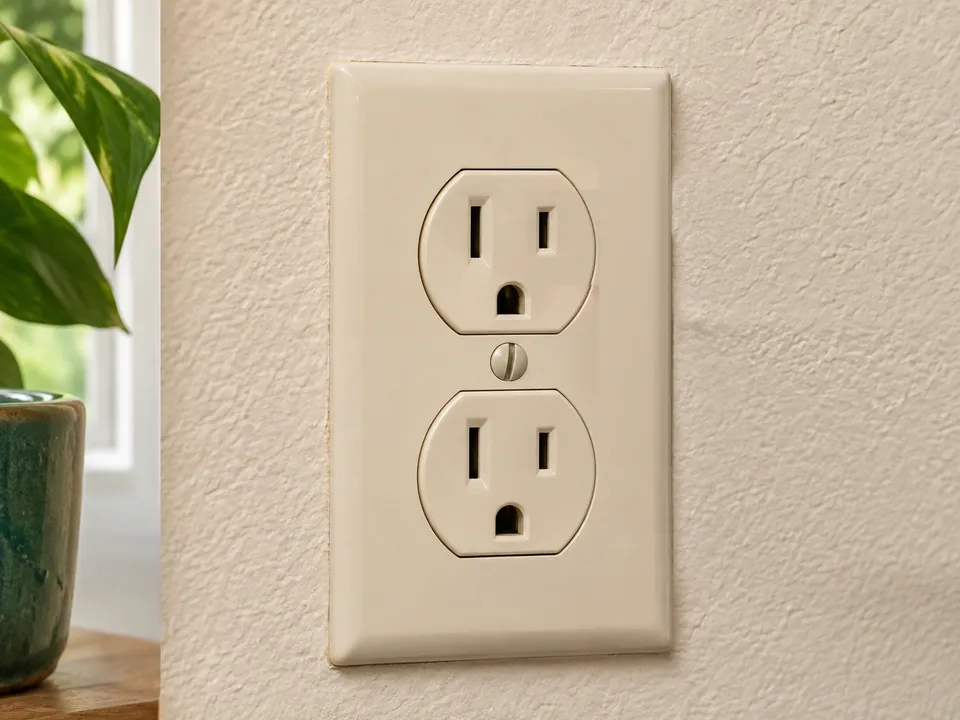
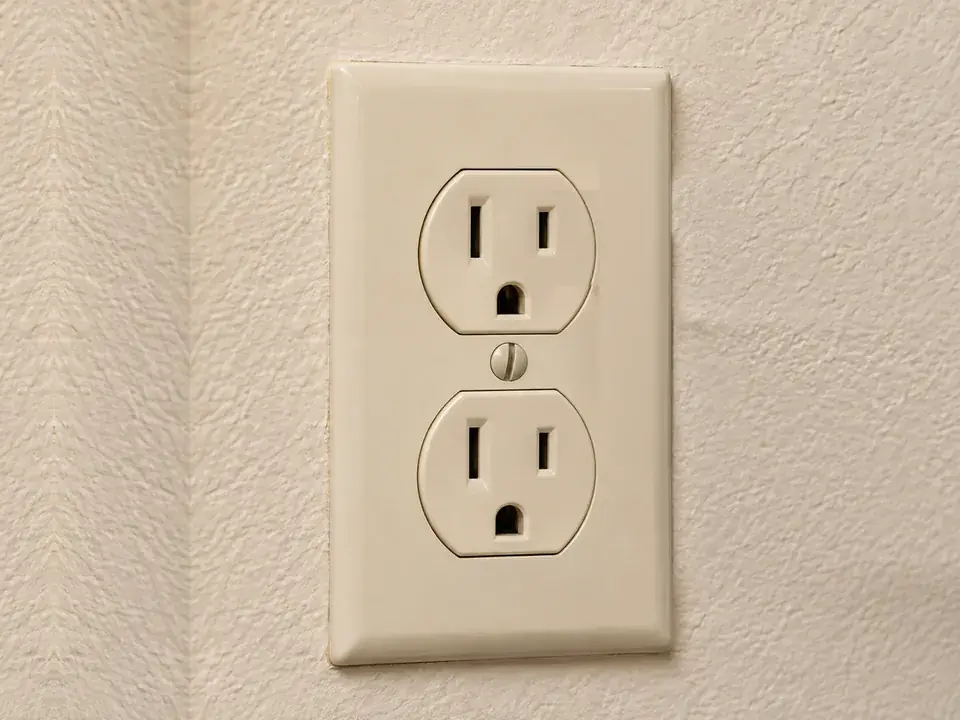
Electrical repair card: remove the window and plant strip on the left
The left sixth of the photo showed a window, a houseplant and an inside wall
corner that read as a separate panel next to the outlet. It is now the same
stucco wall, colour-matched and faded into the existing wall, so the outlet
sits on one continuous surface. The outlet, plate and tester animation are
unchanged. docs/ASSETS.md records the edit, since the build script would
regenerate the original.

Claude-Session: https://claude.ai/code/session_01VQMwdieSw2EiB7mz4YZJXR

Changed region(s): [[0.0, 0.0, 0.1875, 1.0]]

diff --git a/docs/ASSETS.md b/docs/ASSETS.md
@@ -34,3 +34,14 @@ What the script changes, and why:
 - **Lighting** (`dimmer-pendant.webp`): the slider knob is its own layer; the dimmed layer darkens only the pendant's glow, the wall it lights and the countertop reflections, leaving window daylight as photographed.
 - **Remodeling** (`remodel-rough-in.webp`): the source showed receptacles already installed in the open boxes, which doesn't happen at rough-in, so the boxes are emptied and given folded conductors and sheath stubs (drawn). The finished view rebuilds the open bay as painted drywall and baseboard from the same room's finished wall, with receptacles at the box positions, so both views share one camera.
 - **Multimeter** (`multimeter.webp`): the photographed LCD digits are removed (the "~" and "V AC" legends stay) and `components/service-animation.tsx` draws exact seven-segment digits measured from the photo. Verified in the source: black lead in COM, red in VΩHz, dial on V~, black probe in the neutral (wide) slot, red in the hot (narrow) slot.
+
+## Electrical repair card: left edge retouched (2026-11-10)
+
+`public/images/services/electrical-repair/plate.webp` was edited by hand after
+`scripts/build-service-media.mjs` produced it. The source photo has a window,
+a houseplant and an inside wall corner in its left sixth, which read as a
+separate panel beside the outlet. That strip (x 0–180 of 960) is replaced with
+the same stucco wall, taken from x 700–930, colour-matched to the wall beside
+it and faded in over x 180–230, so the outlet sits on one continuous wall.
+Re-running the build script restores the original strip; apply the same edit
+again, or retouch the source photo in `assets/service-photos/` instead.
